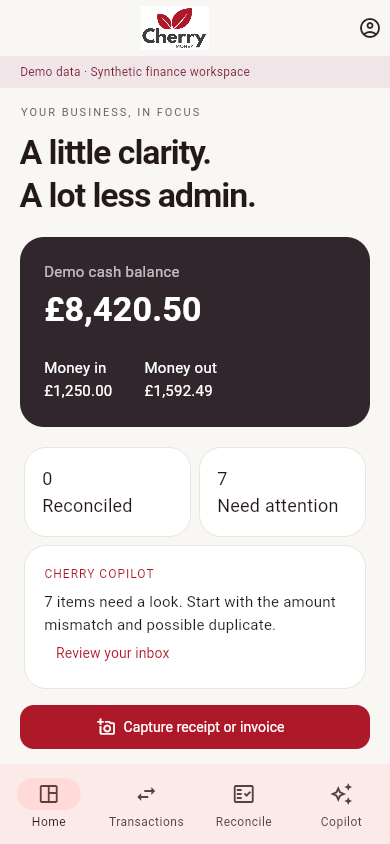
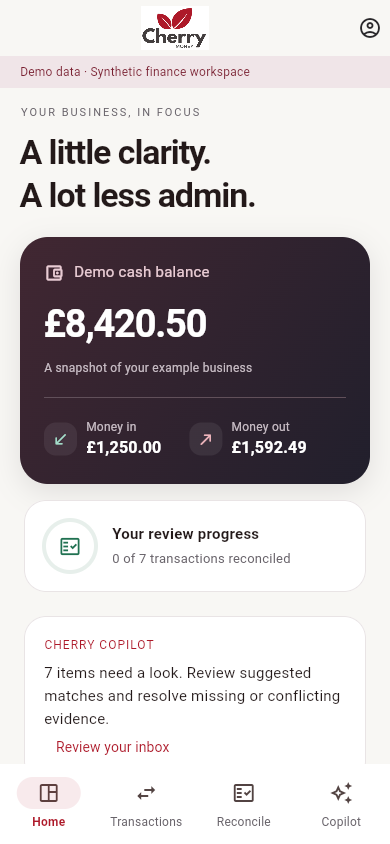
docs: capture verified finance motion experience [skip ci]

diff --git a/docs/VALIDATION.md b/docs/VALIDATION.md
@@ -25,3 +25,7 @@ Initial widget failures were off-screen test taps and were fixed by scrolling th
 - Google native OAuth and live signup/email delivery remain untested; configuration and backend deployment are required. No live account was created by these tests.
 
 Android validation for the authentication/logo update passed in [run 35148379987](https://github.com/sohamtech-uk/cherry-money-mobile-app/actions/runs/35148379987): formatting, analysis, 22 tests and debug APK build. [Download the debug APK artifact](https://github.com/sohamtech-uk/cherry-money-mobile-app/actions/runs/35148379987/artifacts/10467759138). The build tested code commit `15c25c5`; subsequent commits only update documentation/screenshots and merge the default-branch documentation. Backend Google fix PR #186 also passed its full CI tests and container build.
+
+## Motion and finance interface update
+
+Flutter analysis and 27 tests passed, including reduced motion, mid-animation preference changes, finite page entrances, immediate removal of stale statuses and a 320 px layout with 1.8× text. Web build passed. Chrome browser checks passed onboarding → demo dashboard → review → approval at 390 px with normal motion and 320 px with reduced motion; no page errors. Approval removed the action and displayed confirmation. The screenshots reflect the updated interface. Native gesture/performance testing still requires a device.
